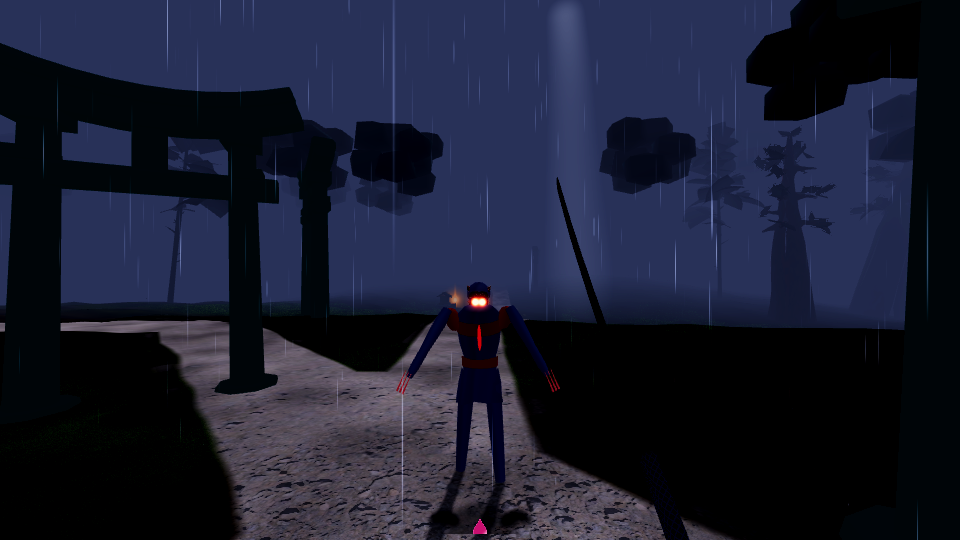
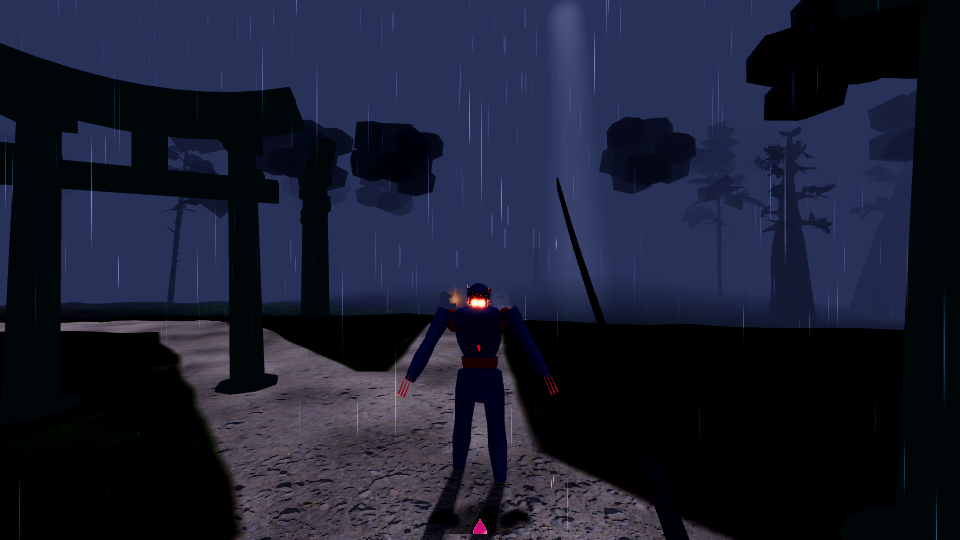
feat(yokai): broader bodies with forward lean, warmer mask, mask contrast test (N3 fix1)
Torso is broader and leans forward in the mesh itself (no node rotation, so
the slicer still reads the vertices). Arms, forearms, thighs and calves are
fuller, wrists and ankles thinner. The mask gets a warmer, brighter tint, a
Fresnel rim from the shader's existing fog_rim, a little less wet darkening,
a warm emission lift (no light) and a softer normal depth (speckle at
distance). Visual test asserts head/mask contrast against the fog at 3 m.

Budgets: 3 266 triangles and 23 surfaces per yōkai. Physics unchanged.

diff --git a/docs/N3_YOKAI_MASK.md b/docs/N3_YOKAI_MASK.md
@@ -81,3 +81,41 @@ Trójkąty szacowane ręcznie dla „przed”: nie mierzone w poprzednim commici
 - Desaturacja skóry roju (sky fill w `wet_surface.gdshader`), wspólna dla wszystkich wrogów; zmiana globalna.
 - Pazury i hakama z kilkoma wariantami kształtu, żeby rój nie wyglądał jak jeden model powielony.
 - Wygładzenie maski (ok. 2,2k tris dawałoby lepszy profil rogów; budżet jest tu ciasny).
+
+## Poprawki fix1 (po review supervisora)
+
+Zmiany:
+- Proporcje: klatka szersza (barki ±0,198 m, talia ±0,176 m), tułów pochylony do przodu
+  o ok. 0,05 m na górze (`CHEST_LEAN`, przesunięcie w samej siatce, nie węzeł: slicer czyta
+  wierzchołki). Ramiona i przedramiona pełniejsze (do 1,38× promienia fizycznej kapsuły),
+  nadgarstek cieńszy. Uda do 1,45×, łydki 1,12×, kostka 0,75×. Ring-y bez zmiany liczby,
+  więc trójkąty prawie stoją w miejscu.
+- Maska: cieplejszy, jaśniejszy tint (`MASK_TINT` 2,4/1,9/1,6), wilgotność 0,42 → 0,2 (mniej
+  przyciemnienia), warstwa `MASK_FILL` 0,85, rim Fresnela z istniejącego parametru `fog_rim`
+  (0,7), delikatna ciepła emisja `MASK_LIFT` (0,09/0,06/0,05) – nie świeci, bez świateł.
+  `normal_depth` 1,0 → 0,5: przy ~30 px dawał iskrzenie (aliasing).
+- Test: nowa asercja kontrastu głowy/maski względem tła przy 3 m (`MASK_CONTRAST` 0,08;
+  wynik 0,21). Uwaga: ten pomiar obejmuje też jasne oczy, więc zawyża czytelność rysów.
+
+Wyniki (ten sam kadr):
+- 8 m, cztery szkoły: najbliższa para 0,20 (próg 0,12).
+- 3 m, sylwetka vs mgła: 0,28 (próg 0,05).
+- 3 m, głowa/maska vs mgła: 0,21 (próg 0,08).
+- Trójkąty na yōkai: 3 266 (limit 4 000); surface: 23 (limit 24).
+
+Surowa ocena po poprawkach:
+- Sylwetka: lepsza. Szersze barki i pochylenie czytają się z 8 m jako postać, nie jako
+  patyk. Nadal jeden model powielony na cały rój: wszystkie yōkai identyczne, ręce w T
+  wynikają z istniejących póz (nie ruszałem fizyki ani póz).
+- Maska z 3 m: rogi są widoczne jako dwa haczyki po bokach, czoło jest cieplejsze, ale twarz
+  nadal ciemna i mało szczegółowa. To NIE jest jeszcze czytelna maska demona; to czytelna
+  głowa z oczami. Rysy (zęby, usta) przy 3 m są nieczytelne przy 960×540.
+- Oni: maska jest tą samą maską (ciemna twarz, jasne oczy, rogi słabo widoczne), ale
+  korpus Oni (blokowy, czerwony) nadal dominuje kadr. Nie poprawiałem korpusu, bo to osobna praca.
+- Kirisute: kadr po cięciu nadal nie pokazuje wyraźnie przekroju.
+
+Testy (flaky, poza N3):
+- `xr_play_test` (run 2, check „cutting the restart ema starts a new run”, potem kolejne
+  checki run 2) pada losowo także na commicie sprzed N3 (`a033e7f`: 1 na 4 przebiegi).
+  To pre-istniejąca niestabilność czasowa testu XR, nie regresja tej pracy. Nie naprawiona
+  w tym commicie; wymaga osobnej analizy (czasy klatek i trafienia ostrza w symulacji XR).
